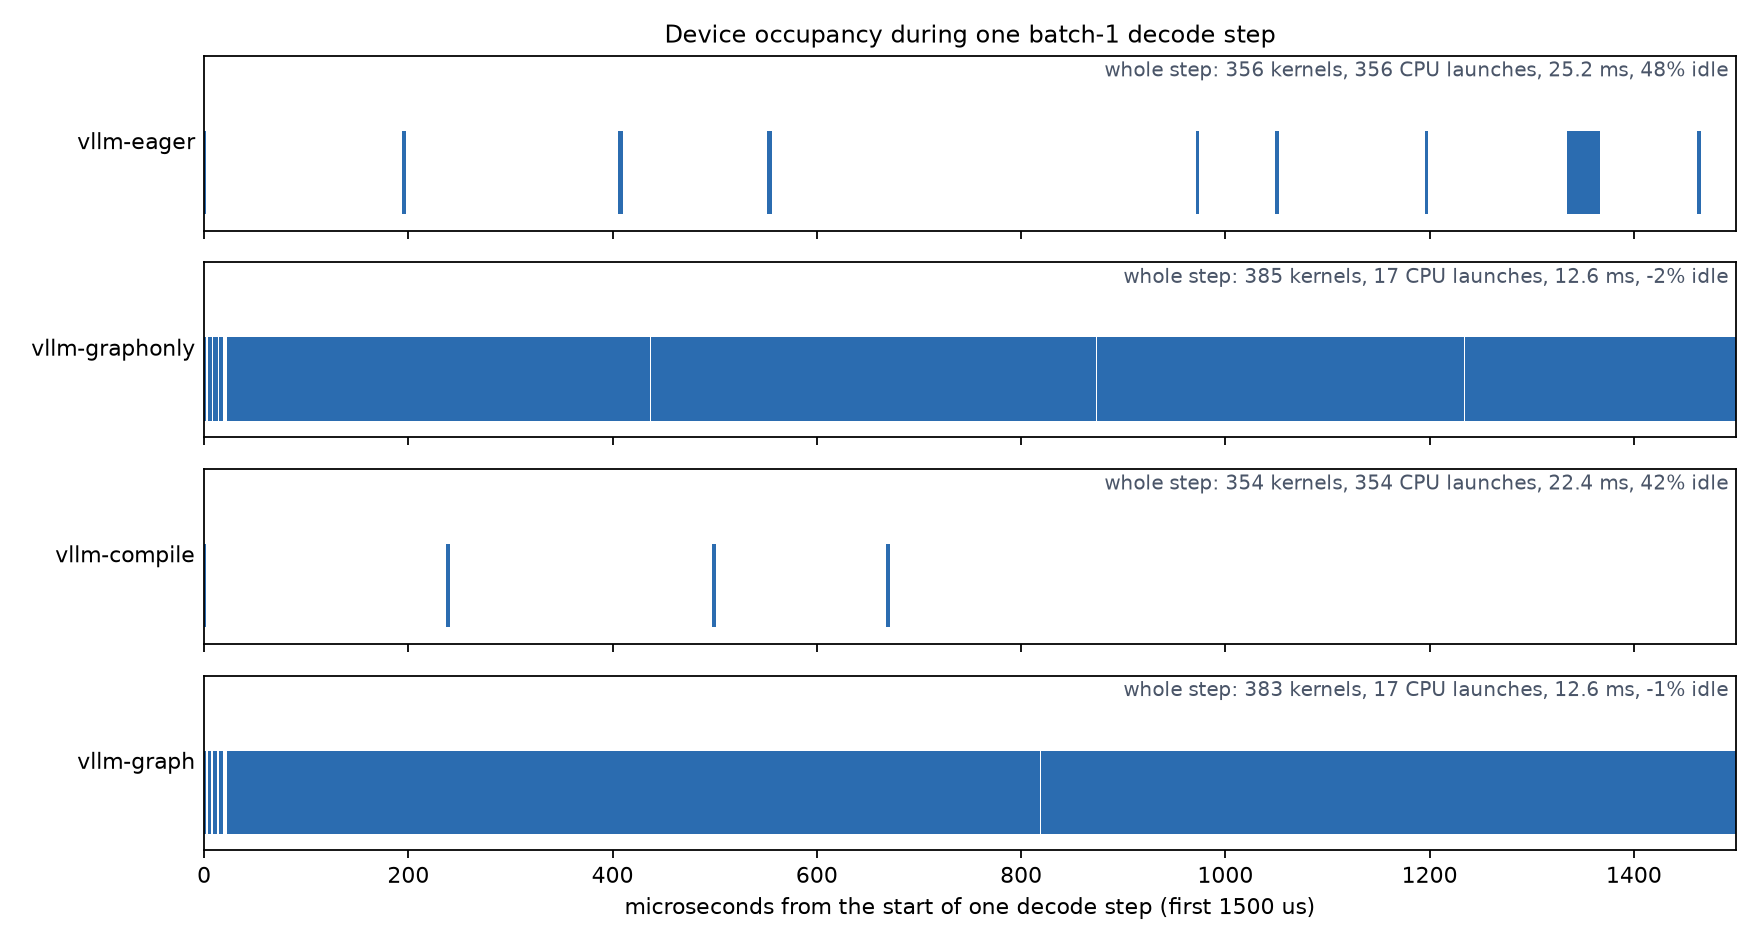
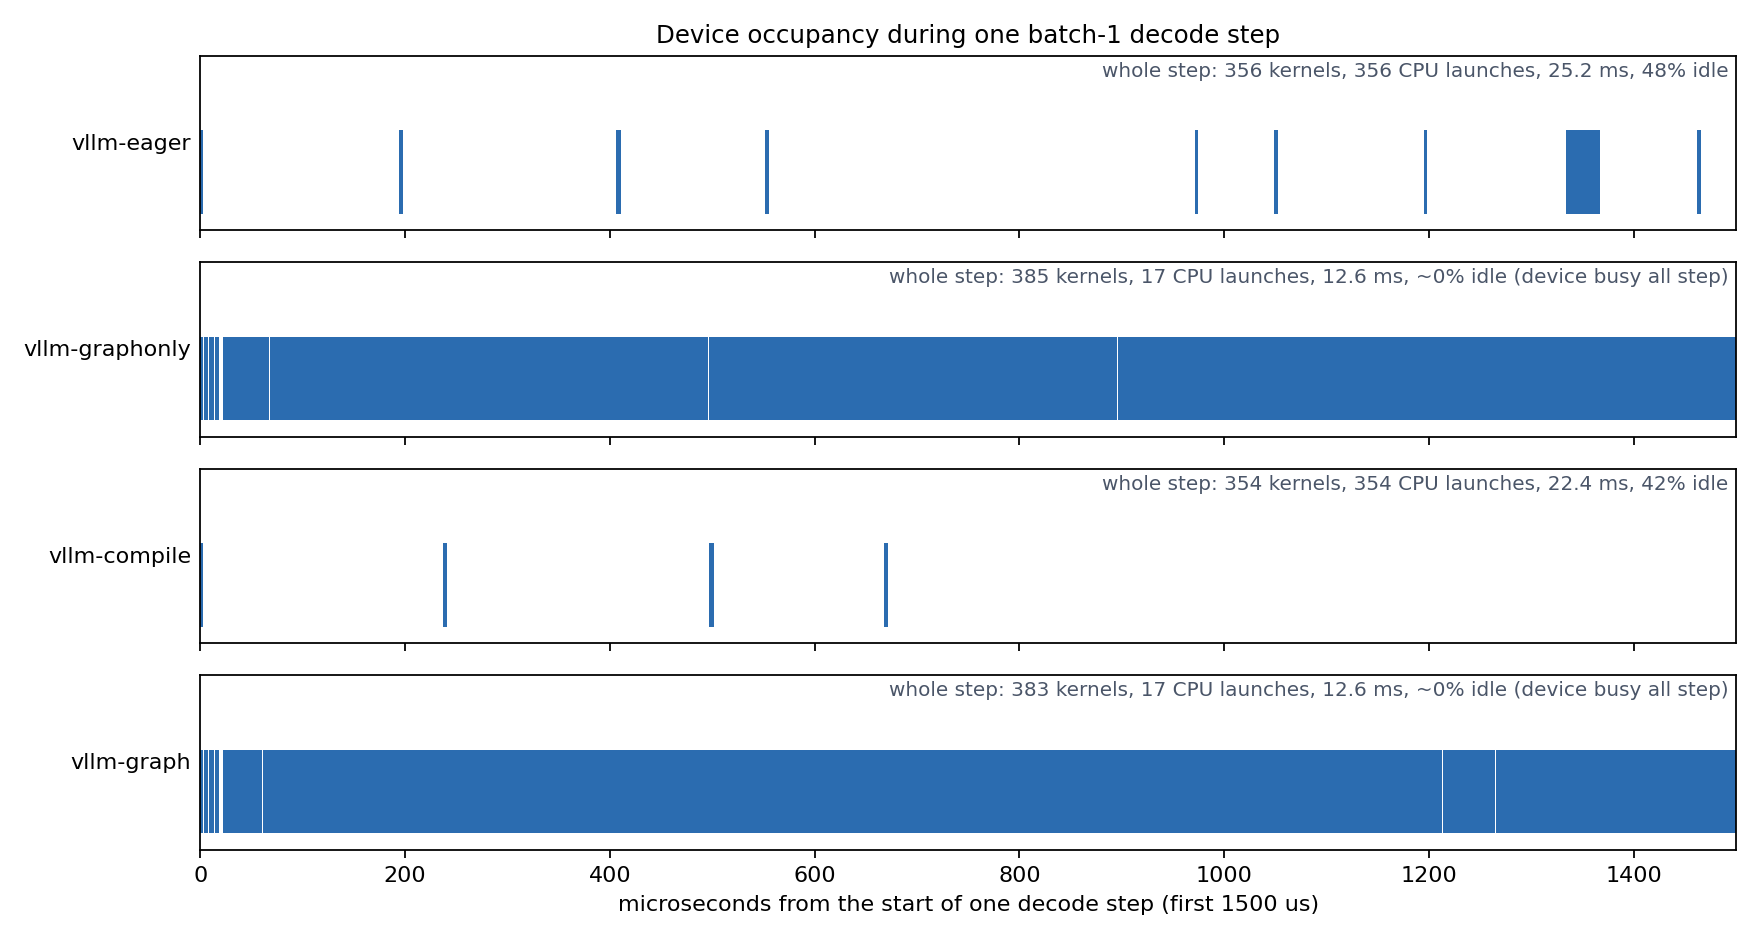
Read a sub-floor idle fraction as zero in the figure caption
Both graph rows sit inside the ~2% resolution floor of the T-minus-B
method, so the caption printed '-2% idle' and '-1% idle'. That is not
negative idle time, it is zero measured imprecisely, and printing it as a
negative invites the reader to think the analysis is broken when it is in
fact reporting the result. Say '~0% idle (device busy all step)' below the
floor.

diff --git a/scripts/analyze_trace.py b/scripts/analyze_trace.py
@@ -402,11 +402,15 @@ def timeline_figure(
         ax.set_ylabel(label, rotation=0, ha="right", va="center", fontsize=10)
         ax.set_yticks([])
         ax.set_ylim(0, 1.05)
+        # A gap inside the method's ~2% floor is not negative idle time, it is
+        # zero measured imprecisely. Printing "-2% idle" invites the reader to
+        # think the analysis is broken when in fact it is reporting the result.
+        idle_txt = "~0% idle (device busy all step)" if idle < 2.0 else f"{idle:.0f}% idle"
         ax.text(
             0.995, 0.97,
             f"whole step: {s.gpu_kernels_per_step:.0f} kernels, "
             f"{s.cpu_launches_per_step:.0f} CPU launches, "
-            f"{step_ms:.1f} ms, {idle:.0f}% idle",
+            f"{step_ms:.1f} ms, {idle_txt}",
             transform=ax.transAxes, ha="right", va="top", fontsize=9, color="#4a5568",
         )
 